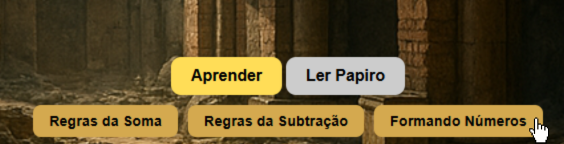
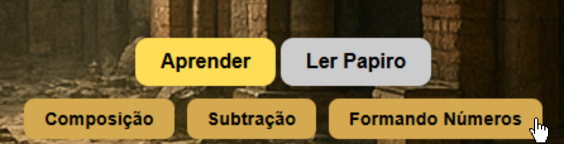
Add files via upload

diff --git a/gameover-papiro1-2.html b/gameover-papiro1-2.html
@@ -1,5 +1,6 @@
 <!DOCTYPE html>
 <html lang="en">
+
 <head>
     <meta charset="UTF-8">
     <meta name="viewport" content="width=device-width, initial-scale=1.0">
@@ -8,14 +9,20 @@
         .background {
             position: fixed;
             top: 0;
-            left: 0; /* Ajuste para colar a imagem na borda esquerda */
-            width: 100%; /* Ajuste para cobrir 100% da largura */
-            height: 100%; /* Ajuste para cobrir 100% da altura */
+            left: 0;
+            /* Ajuste para colar a imagem na borda esquerda */
+            width: 100%;
+            /* Ajuste para cobrir 100% da largura */
+            height: 130%;
+            /* Ajuste para cobrir 100% da altura */
             background-image: url('game-over-new.png');
-            background-size: cover; /* Ajusta a imagem para cobrir todo o fundo */
-            background-position: center; /* Centraliza a imagem */
-            background-repeat: no-repeat; /* Evita que a imagem se repita */
-            transition: transform 0.1s; 
+            background-size: cover;
+            /* Ajusta a imagem para cobrir todo o fundo */
+            background-position: center;
+            /* Centraliza a imagem */
+            background-repeat: no-repeat;
+            /* Evita que a imagem se repita */
+            transition: transform 0.1s;
         }
 
         .button-container {
@@ -51,23 +58,31 @@
         }
     </style>
 </head>
+
 <body>
     <div class="background"></div>
     <div class="button-container">
+        <!-- Adicionei id aos botões para referenciá-los no JavaScript -->
         <button id="startGame" class="button">Voltar para o Menu</button>
-        <button id="home" class="button">Tentar Novamente</button>
+        <button id="try" class="button">Tentar Novamente</button>
+        <button id="home" class="button">Voltar para Roseta</button>
     </div>
     <script>
         // Adicionando os eventos de clique aos botões
-        document.getElementById('startGame').addEventListener('click', function() {
+        document.getElementById('startGame').addEventListener('click', function () {
             // Navega para a página fora do iframe, fechando o iframe
             window.top.location.href = './index.html'; // O 'window.top' vai acessar a janela superior e redirecioná-la.
         });
-        
-        document.getElementById('home').addEventListener('click', function() {
+        document.getElementById('try').addEventListener('click', function () {
+            // Navega para a página fora do iframe, fechando o iframe
+            window.top.location.href = './papiro2.html'; // O 'window.top' vai acessar a janela superior e redirecioná-la.
+        });
+
+        document.getElementById('home').addEventListener('click', function () {
             // Navega para a página de tentar novamente fora do iframe
-            window.top.location.href = './index_game.html'; // O 'window.top' também é usado aqui.
+            window.top.location.href = './roseta.html'; // O 'window.top' também é usado aqui.
         });
     </script>
 </body>
+
 </html>

diff --git a/gameover-papiro1-3.html b/gameover-papiro1-3.html
@@ -1,5 +1,6 @@
 <!DOCTYPE html>
 <html lang="en">
+
 <head>
     <meta charset="UTF-8">
     <meta name="viewport" content="width=device-width, initial-scale=1.0">
@@ -8,14 +9,20 @@
         .background {
             position: fixed;
             top: 0;
-            left: 0; /* Ajuste para colar a imagem na borda esquerda */
-            width: 100%; /* Ajuste para cobrir 100% da largura */
-            height: 100%; /* Ajuste para cobrir 100% da altura */
+            left: 0;
+            /* Ajuste para colar a imagem na borda esquerda */
+            width: 100%;
+            /* Ajuste para cobrir 100% da largura */
+            height: 130%;
+            /* Ajuste para cobrir 100% da altura */
             background-image: url('game-over-new.png');
-            background-size: cover; /* Ajusta a imagem para cobrir todo o fundo */
-            background-position: center; /* Centraliza a imagem */
-            background-repeat: no-repeat; /* Evita que a imagem se repita */
-            transition: transform 0.1s; 
+            background-size: cover;
+            /* Ajusta a imagem para cobrir todo o fundo */
+            background-position: center;
+            /* Centraliza a imagem */
+            background-repeat: no-repeat;
+            /* Evita que a imagem se repita */
+            transition: transform 0.1s;
         }
 
         .button-container {
@@ -51,23 +58,31 @@
         }
     </style>
 </head>
+
 <body>
     <div class="background"></div>
     <div class="button-container">
+        <!-- Adicionei id aos botões para referenciá-los no JavaScript -->
         <button id="startGame" class="button">Voltar para o Menu</button>
-        <button id="home" class="button">Tentar Novamente</button>
+        <button id="try" class="button">Tentar Novamente</button>
+        <button id="home" class="button">Voltar para Roseta</button>
     </div>
     <script>
         // Adicionando os eventos de clique aos botões
-        document.getElementById('startGame').addEventListener('click', function() {
+        document.getElementById('startGame').addEventListener('click', function () {
             // Navega para a página fora do iframe, fechando o iframe
             window.top.location.href = './index.html'; // O 'window.top' vai acessar a janela superior e redirecioná-la.
         });
-        
-        document.getElementById('home').addEventListener('click', function() {
+        document.getElementById('try').addEventListener('click', function () {
+            // Navega para a página fora do iframe, fechando o iframe
+            window.top.location.href = './papiro3.html'; // O 'window.top' vai acessar a janela superior e redirecioná-la.
+        });
+
+        document.getElementById('home').addEventListener('click', function () {
             // Navega para a página de tentar novamente fora do iframe
-            window.top.location.href = './index_game.html'; // O 'window.top' também é usado aqui.
+            window.top.location.href = './roseta.html'; // O 'window.top' também é usado aqui.
         });
     </script>
 </body>
+
 </html>

diff --git a/gameover-papiro1-1.html b/gameover-papiro1-1.html
@@ -1,5 +1,6 @@
 <!DOCTYPE html>
 <html lang="en">
+
 <head>
     <meta charset="UTF-8">
     <meta name="viewport" content="width=device-width, initial-scale=1.0">
@@ -8,14 +9,20 @@
         .background {
             position: fixed;
             top: 0;
-            left: 0; /* Ajuste para colar a imagem na borda esquerda */
-            width: 100%; /* Ajuste para cobrir 100% da largura */
-            height: 100%; /* Ajuste para cobrir 100% da altura */
+            left: 0;
+            /* Ajuste para colar a imagem na borda esquerda */
+            width: 100%;
+            /* Ajuste para cobrir 100% da largura */
+            height: 130%;
+            /* Ajuste para cobrir 100% da altura */
             background-image: url('game-over-new.png');
-            background-size: cover; /* Ajusta a imagem para cobrir todo o fundo */
-            background-position: center; /* Centraliza a imagem */
-            background-repeat: no-repeat; /* Evita que a imagem se repita */
-            transition: transform 0.1s; 
+            background-size: cover;
+            /* Ajusta a imagem para cobrir todo o fundo */
+            background-position: center;
+            /* Centraliza a imagem */
+            background-repeat: no-repeat;
+            /* Evita que a imagem se repita */
+            transition: transform 0.1s;
         }
 
         .button-container {
@@ -51,23 +58,31 @@
         }
     </style>
 </head>
+
 <body>
     <div class="background"></div>
     <div class="button-container">
+        <!-- Adicionei id aos botões para referenciá-los no JavaScript -->
         <button id="startGame" class="button">Voltar para o Menu</button>
-        <button id="home" class="button">Tentar Novamente</button>
+        <button id="try" class="button">Tentar Novamente</button>
+        <button id="home" class="button">Voltar para Roseta</button>
     </div>
     <script>
         // Adicionando os eventos de clique aos botões
-        document.getElementById('startGame').addEventListener('click', function() {
+        document.getElementById('startGame').addEventListener('click', function () {
             // Navega para a página fora do iframe, fechando o iframe
             window.top.location.href = './index.html'; // O 'window.top' vai acessar a janela superior e redirecioná-la.
         });
-        
-        document.getElementById('home').addEventListener('click', function() {
+        document.getElementById('try').addEventListener('click', function () {
+            // Navega para a página fora do iframe, fechando o iframe
+            window.top.location.href = './papiro.html'; // O 'window.top' vai acessar a janela superior e redirecioná-la.
+        });
+
+        document.getElementById('home').addEventListener('click', function () {
             // Navega para a página de tentar novamente fora do iframe
-            window.top.location.href = './index_game.html'; // O 'window.top' também é usado aqui.
+            window.top.location.href = './roseta.html'; // O 'window.top' também é usado aqui.
         });
     </script>
 </body>
+
 </html>

diff --git a/gameover-papiro2.html b/gameover-papiro2.html
@@ -1,5 +1,6 @@
 <!DOCTYPE html>
 <html lang="en">
+
 <head>
     <meta charset="UTF-8">
     <meta name="viewport" content="width=device-width, initial-scale=1.0">
@@ -8,14 +9,20 @@
         .background {
             position: fixed;
             top: 0;
-            left: 0; /* Ajuste para colar a imagem na borda esquerda */
-            width: 100%; /* Ajuste para cobrir 100% da largura */
-            height: 100%; /* Ajuste para cobrir 100% da altura */
+            left: 0;
+            /* Ajuste para colar a imagem na borda esquerda */
+            width: 100%;
+            /* Ajuste para cobrir 100% da largura */
+            height: 130%;
+            /* Ajuste para cobrir 100% da altura */
             background-image: url('game-over-new.png');
-            background-size: cover; /* Ajusta a imagem para cobrir todo o fundo */
-            background-position: center; /* Centraliza a imagem */
-            background-repeat: no-repeat; /* Evita que a imagem se repita */
-            transition: transform 0.1s; 
+            background-size: cover;
+            /* Ajusta a imagem para cobrir todo o fundo */
+            background-position: center;
+            /* Centraliza a imagem */
+            background-repeat: no-repeat;
+            /* Evita que a imagem se repita */
+            transition: transform 0.1s;
         }
 
         .button-container {
@@ -51,23 +58,25 @@
         }
     </style>
 </head>
+
 <body>
     <div class="background"></div>
     <div class="button-container">
+        <!-- Adicionei id aos botões para referenciá-los no JavaScript -->
         <button id="startGame" class="button">Voltar para o Menu</button>
         <button id="home" class="button">Tentar Novamente</button>
     </div>
     <script>
         // Adicionando os eventos de clique aos botões
-        document.getElementById('startGame').addEventListener('click', function() {
+        document.getElementById('startGame').addEventListener('click', function () {
             // Navega para a página fora do iframe, fechando o iframe
             window.top.location.href = './index.html'; // O 'window.top' vai acessar a janela superior e redirecioná-la.
         });
-        
-        document.getElementById('home').addEventListener('click', function() {
-            // Navega para a página de tentar novamente fora do iframe
-            window.top.location.href = './index_game.html'; // O 'window.top' também é usado aqui.
+
+        document.getElementById('home').addEventListener('click', function () {
+            window.top.location.href = 'index_game.html';
         });
     </script>
 </body>
+
 </html>

diff --git a/next.html b/next.html
@@ -18,8 +18,8 @@
 
     .lado-esquerdo {
       width: 50%;
-      background: url('') no-repeat center center;
-       background-size: contain;
+      background: url('papiro-pedra.png') no-repeat center center;
+       background-size: cover;
       
     }
 
@@ -111,7 +111,7 @@
       <h3>Muito bem, agora vamos aumentar a dificuldade!</h3>
       <div class="botoes">
         
-         <button class="botao voltar" onclick="window.top.location.href = './sabio.html'; ">Voltar</button>
+         <button class="botao voltar" onclick="window.top.location.href = './roseta.html'; ">Voltar</button>
         <button class="botao" onclick="window.top.location.href='papiro2.html'">Próxima fase</button>
         
       </div>

diff --git a/final-end-next.html b/final-end-next.html
@@ -18,7 +18,7 @@
 
     .lado-esquerdo {
       width: 50%;
-      background: url('final-war.png') no-repeat center center;
+      background: url('next-end.png') no-repeat center center;
       background-size: cover;
       
     }
@@ -111,7 +111,7 @@
       <h3>Muito bem agora está na hora de testar todo o seu conhecimento!</h3>
       <div class="botoes">
         
-         <button class="botao voltar" onclick="window.top.location.href = './sabio.html'; ">Voltar</button>
+         <button class="botao voltar" onclick="window.top.location.href = './roseta.html'; ">Voltar</button>
         <button class="botao" onclick="window.top.location.href='./index_game.html'">Próxima fase</button>
         
       </div>

diff --git a/end-next.html b/end-next.html
@@ -18,7 +18,7 @@
 
     .lado-esquerdo {
       width: 50%;
-      background: url('rahin-next.png') no-repeat center center;
+      background: url('next-end.png') no-repeat center center;
       background-size: cover;
       
     }
@@ -111,7 +111,7 @@
       <h3>Muito bem agora um ultimo desafio! Preparado?</h3>
       <div class="botoes">
         
-         <button class="botao voltar" onclick="window.top.location.href = './sabio.html'; ">Voltar</button>
+         <button class="botao voltar" onclick="window.top.location.href = './roseta.html'; ">Voltar</button>
         <button class="botao" onclick="window.top.location.href='./papiro3.html'">Próxima fase</button>
         
       </div>

diff --git a/creditos.html b/creditos.html
@@ -47,8 +47,8 @@
     </div>
     <div class="credit-entry">
         <h3>Leonel leite</h3>
-        <p>Estudante de Licenciatura em sociologia - UFRN - (Desenvolvento Pedagógico)</p>
-        <a href="" target="_blank">Currículo Lattes</a>
+        <p>Graduando em Ciências Sociais - UFRN -(Inclusão e Acessibilidade)</p>
+        <a href="https://wwws.cnpq.br/cvlattesweb/PKG_MENU.menu?f_cod=8842557624B35343E08C8E480E557938# " target="_blank">Currículo Lattes</a>
     </div>
     <div class="credit-entry">
     <h3>Dennys Leite Maia</h3>

diff --git a/papiro.html b/papiro.html
@@ -332,7 +332,7 @@
       <iframe src="./next.html" frameborder="0"></iframe>
     </div>
     <div class="iframe-container" id="iframe-container">
-      <iframe src="./gameover-papiro.html" id="iframe" frameborder="0"></iframe>
+      <iframe src="./gameover-papiro1-1.html" id="iframe" frameborder="0"></iframe>
     </div>
 
     <audio id="erro-som" src="wrong.mp3"></audio>

diff --git a/papiro3.html b/papiro3.html
@@ -287,7 +287,7 @@
       <iframe src="./final-end-next.html" frameborder="0"></iframe>
     </div>
     <div class="iframe-container" id="iframe-container">
-      <iframe src="./gameover-papiro.html" frameborder="0"></iframe>
+      <iframe src="./gameover-papiro1-3.html" frameborder="0"></iframe>
     </div>
 
     <audio id="erro-som" src="wrong.mp3"></audio>

diff --git a/papiro2.html b/papiro2.html
@@ -287,7 +287,7 @@
       <iframe src="./end-next.html" frameborder="0"></iframe>
     </div>
     <div class="iframe-container" id="iframe-container">
-      <iframe src="./gameover-papiro.html" frameborder="0"></iframe>
+      <iframe src="./gameover-papiro1-2.html" frameborder="0"></iframe>
     </div>
 
     <audio id="erro-som" src="wrong.mp3"></audio>

diff --git a/index_game.html b/index_game.html
@@ -211,7 +211,7 @@
   <audio id="wrong-sound" src="wrong-sound.mp3"></audio>
 
   <div id="game-over-overlay" class="iframe-container">
-    <iframe src="gameover-papiro.html"></iframe>
+    <iframe src="gameover-papiro2.html"></iframe>
   </div>
  <div id="victory-overlay" class="iframe-container">
   <iframe src="final-end.html"></iframe>
